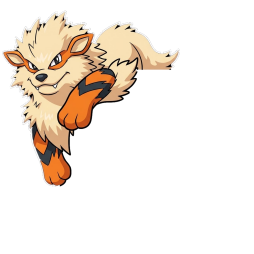
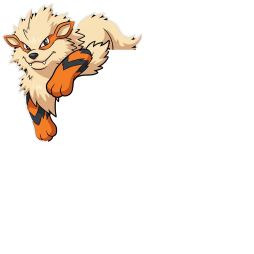
Pokemon rank hat 7 (Arcanine): smaller and higher so it covers less of the picture (#173)
Claude-Session: https://claude.ai/code/session_01K62jKbwR1q4er12esREiiv

Changed region(s): [[0.0, 0.0, 0.7165, 0.7441]]

diff --git a/ingame.html b/ingame.html
@@ -27,7 +27,7 @@ j=d.createElement(s),dl=l!='dataLayer'?'&l='+l:'';j.async=true;j.src=
     <link rel="preconnect" href="https://fonts.googleapis.com">
     <link rel="preconnect" href="https://fonts.gstatic.com" crossorigin>
     <link href="https://fonts.googleapis.com/css2?family=Libre+Franklin:wght@400;700&family=Petra&display=swap" rel="stylesheet">
-    <link rel="stylesheet" href="styles/style.css?v=pokemon-battle-polish-v1&pokemon-type-classes-v1&scraggy-miss-v1&pokemon-logo-v1&battle-death-toggle-v1&community-animation-pass-v1&pokemon-trainer-capture-audio-v1&pokemon-evolution-cinematic-v2&sound-state-visibility-v1&classic-chat-clear-v1&target-damage-preview-v1&weather-vfx-sheet-v1&polluted-air-v2&skill-panel-zindex-fix-v1&sound-controller-layout-v1&polluted-air-fog-vfx-v1&confirmed-combat-fx-scale-down-v1&pinsir-guillotine-cinematic-v1&lance-team-preset-v1&revert-cache-bust-force-v1&genjutsu-yellow-v1&battle-fx-v1&pokemon-rank-hats-v1">
+    <link rel="stylesheet" href="styles/style.css?v=pokemon-battle-polish-v1&pokemon-type-classes-v1&scraggy-miss-v1&pokemon-logo-v1&battle-death-toggle-v1&community-animation-pass-v1&pokemon-trainer-capture-audio-v1&pokemon-evolution-cinematic-v2&sound-state-visibility-v1&classic-chat-clear-v1&target-damage-preview-v1&weather-vfx-sheet-v1&polluted-air-v2&skill-panel-zindex-fix-v1&sound-controller-layout-v1&polluted-air-fog-vfx-v1&confirmed-combat-fx-scale-down-v1&pinsir-guillotine-cinematic-v1&lance-team-preset-v1&revert-cache-bust-force-v1&genjutsu-yellow-v1&battle-fx-v1&pokemon-rank-hats-v1&arcanine-hat-v2">
     <link rel="stylesheet" href="styles/battle-fx.css?v=battle-fx-v3">
     <link rel="stylesheet" href="styles/status-fx.css?v=status-fx-v1">
     <link rel="stylesheet" href="styles/ingame-experimental.css?v=pokemon-gameplay-fixes-v4&pokemon-ui-polish-v1&pokemon-ui-polish-v2&battle-options-death-toggle-v1&mobile-battle-options-v2&cooldown-alignment-v1&sound-state-visibility-v1&sound-controller-layout-v3&roster-zindex-fix-v1&lance-side-render-v1&no-zoom-v1&options-inline-v1">
@@ -540,7 +540,7 @@ height="0" width="0" style="display:none;visibility:hidden"></iframe></noscript>
 <script src="pokemon-wave-2-live.js?v=pokemon-balance-v3&aegislash-special-classes-v1&ditto-community-v1&jigglypuff-perish-v3"></script>
     <script src="scripts/battle-fx.js?v=battle-fx-v5"></script>
     <script src="scripts/energy-fx.js?v=energy-fx-v1"></script>
-    <script src="scripts/script.js?v=battle-widescreen-v1&pokemon-battle-polish-v2&gen2-missions-v2&pokemon-type-classes-v1&pokemon-ui-polish-v1&pokemon-ui-polish-v2&ui-stability-v1&ui-stability-v2&ios-audio-controls-v1&ditto-copy-ui-v1&scraggy-miss-v1&scraggy-evolution-ui-v1&battle-options-death-toggle-v1&community-animation-pass-v1&pokemon-trainer-capture-audio-v4&pokemon-evolution-cinematic-v2&mobile-battle-options-v2&cooldown-alignment-v1&matchmaking-spinner-restart-v1&chakra-queue-stability-v3&chakra-sync-batch-v1&match-sync-watchdog-v2&leech-seed-first-tick-v2&battle-intro-music-sync-v1&chakra-exchange-2-for-1-v1&nincada-community-v1&primeape-release-v1&energy-commit-guard-v1&jigglypuff-nincada-balance-v2&nincada-form-skills-v2&match-db-recovery-v1&target-damage-preview-v1&target-damage-flash-v1&damage-preview-blink-uncertain-v1&buff-debuff-burst-v1&skill-ready-glow-weather-burst-v1&weather-music-v1&weather-vfx-sheet-v1&polluted-air-v2&unlock-confirm-reset-v1&weather-scope-fix-v1&hp-ratio-fix-v1&sound-controller-layout-v3&polluted-air-fog-vfx-v1&arena-ladder-scope-fix-v1&pinsir-guillotine-cinematic-v1&pokemon-roster-dex-v2&mega-pinsir-copy-fix-v1&pinsir-struggle-bug-visible-v1&lance-champion-release-v1&lance-team-preset-v1&lance-preview-render-v3&store-character-bundles-v1&revert-cache-bust-force-v1&lance-side-render-v1&pokemon-arena-links-v1&trainer-red-champion-theme-v1&comic-selection-renders-v1&deadpool-release-v1&blaziken-release-v1&eevee-stays-v1&battle-fx-v1&no-zoom-v1&iphone-no-zoom-v1&aerodactyl-rework-v1&iphone-team-dbltap-v1&pokemon-rank-hats-v1"></script>
+    <script src="scripts/script.js?v=battle-widescreen-v1&pokemon-battle-polish-v2&gen2-missions-v2&pokemon-type-classes-v1&pokemon-ui-polish-v1&pokemon-ui-polish-v2&ui-stability-v1&ui-stability-v2&ios-audio-controls-v1&ditto-copy-ui-v1&scraggy-miss-v1&scraggy-evolution-ui-v1&battle-options-death-toggle-v1&community-animation-pass-v1&pokemon-trainer-capture-audio-v4&pokemon-evolution-cinematic-v2&mobile-battle-options-v2&cooldown-alignment-v1&matchmaking-spinner-restart-v1&chakra-queue-stability-v3&chakra-sync-batch-v1&match-sync-watchdog-v2&leech-seed-first-tick-v2&battle-intro-music-sync-v1&chakra-exchange-2-for-1-v1&nincada-community-v1&primeape-release-v1&energy-commit-guard-v1&jigglypuff-nincada-balance-v2&nincada-form-skills-v2&match-db-recovery-v1&target-damage-preview-v1&target-damage-flash-v1&damage-preview-blink-uncertain-v1&buff-debuff-burst-v1&skill-ready-glow-weather-burst-v1&weather-music-v1&weather-vfx-sheet-v1&polluted-air-v2&unlock-confirm-reset-v1&weather-scope-fix-v1&hp-ratio-fix-v1&sound-controller-layout-v3&polluted-air-fog-vfx-v1&arena-ladder-scope-fix-v1&pinsir-guillotine-cinematic-v1&pokemon-roster-dex-v2&mega-pinsir-copy-fix-v1&pinsir-struggle-bug-visible-v1&lance-champion-release-v1&lance-team-preset-v1&lance-preview-render-v3&store-character-bundles-v1&revert-cache-bust-force-v1&lance-side-render-v1&pokemon-arena-links-v1&trainer-red-champion-theme-v1&comic-selection-renders-v1&deadpool-release-v1&blaziken-release-v1&eevee-stays-v1&battle-fx-v1&no-zoom-v1&iphone-no-zoom-v1&aerodactyl-rework-v1&iphone-team-dbltap-v1&pokemon-rank-hats-v1&arcanine-hat-v2"></script>
     <script>
         (function () {
             // Experimental battlefield toggle (Settings > Options) and its presentation script.
